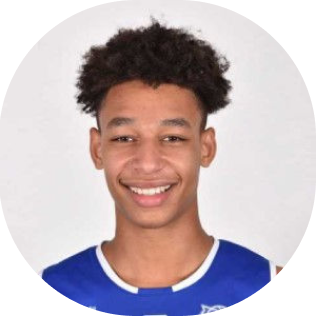
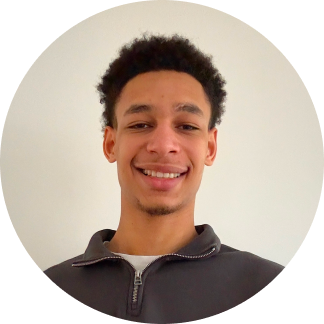
updated fotos

diff --git a/assets/assets.js b/assets/assets.js
@@ -1,4 +1,4 @@
-import user_image from "./user-image.png";
+import user_image from "./user-image.jpg";
 import code_icon from "./code-icon.png";
 import code_icon_dark from "./code-icon-dark.png";
 import edu_icon from "./edu-icon.png";
@@ -300,7 +300,7 @@ export const infoList = [
     icon: assets.edu_icon,
     iconDark: assets.edu_icon_dark,
     title: "Education",
-    description: "B.Tech in Computer Science",
+    description: "Graphical and digital media, IT & Software",
   },
   {
     icon: assets.project_icon,

diff --git a/app/components/Services.jsx b/app/components/Services.jsx
@@ -9,8 +9,8 @@ const Services = () => {
       <h2 className=" text-center text-5xl font-Ovo">My services </h2>
 
       <p className=" text-center max-w-2xl mx-auto mt-5 mb-12 font-Ovo">
-        I am a frontend developer from Brussels, Belgium with 3 years of
-        experience in multiple companies like ..... , .....
+        I am a frontend developer from Antwerp/ Brussels, Belgium with 3 years
+        of experience
       </p>
 
       <div className="grid grid-cols-auto gap-6 my-10">
